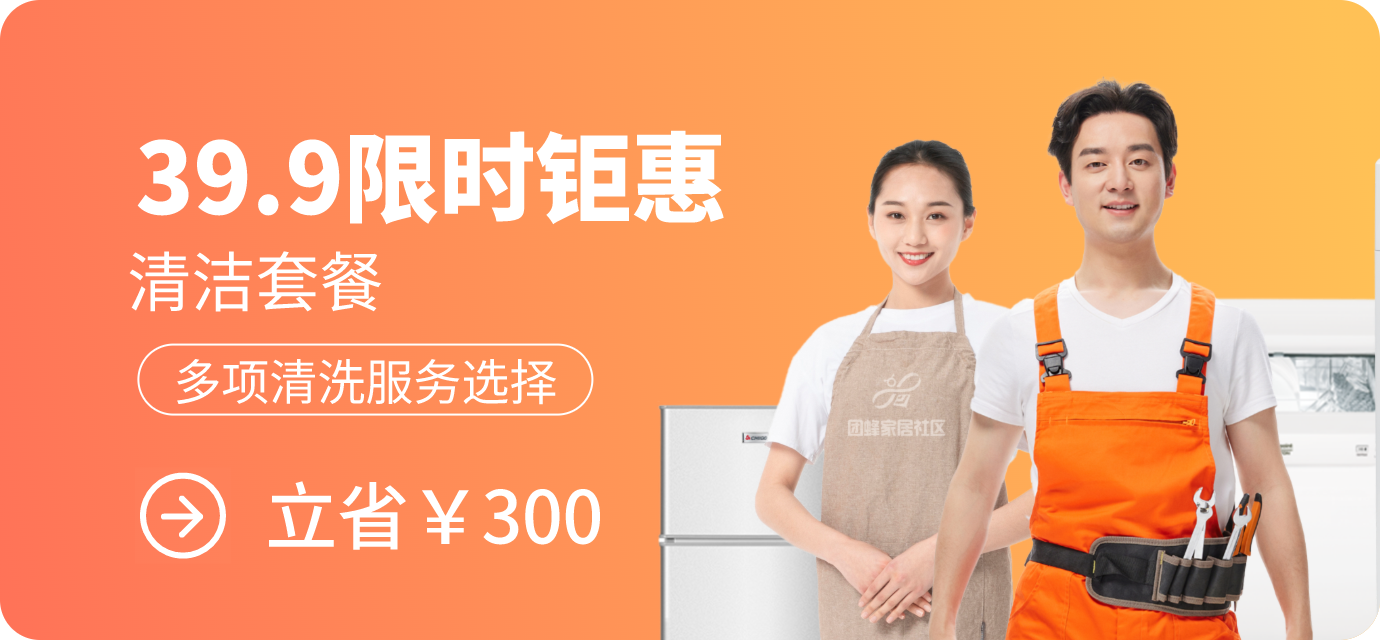
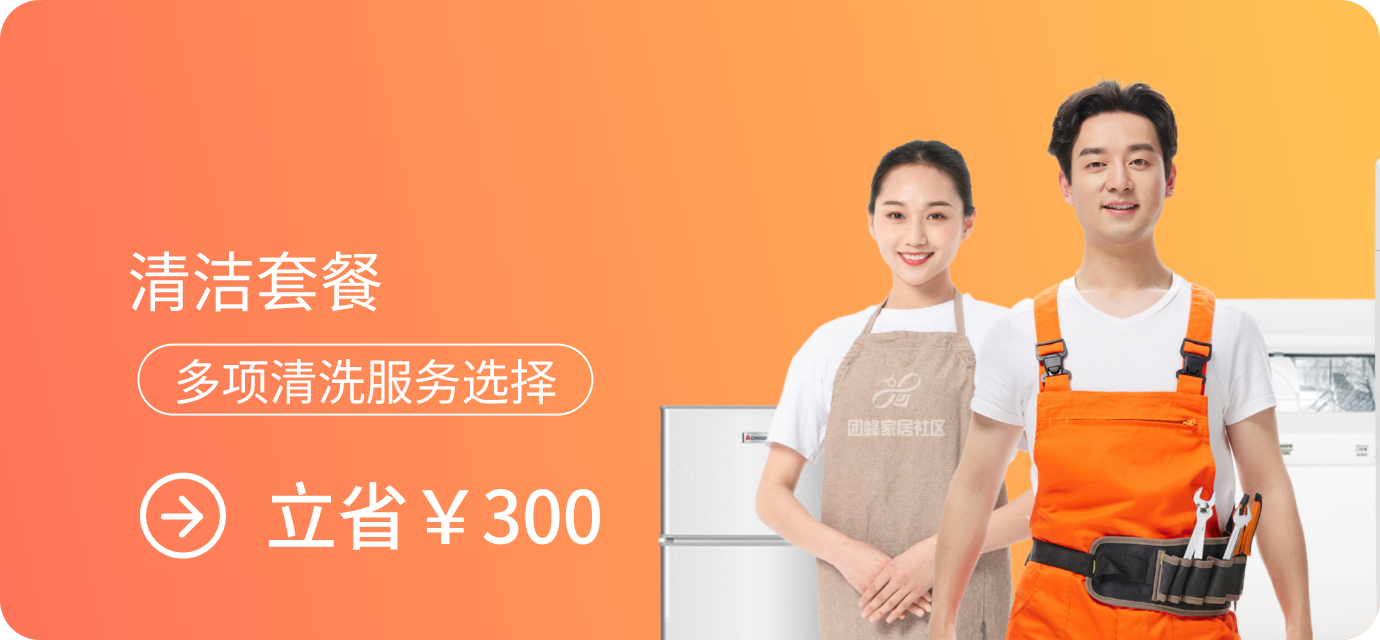
🦄 refactor(vipPackage): 将会员套餐改成动态

Changed region(s): [[0.0935, 0.1875, 0.5297, 0.3438]]

diff --git a/pages/community-center/cpns/VipPackage.vue b/pages/community-center/cpns/VipPackage.vue
@@ -6,12 +6,35 @@
     <view class="vip-container">
       <swiper indicator-dots autoplay indicator-color="#fff" indicator-active-color="#fdb96c"
         style="height: 320upx; width: 100%;">
-        <swiper-item @click="handleToVipDetail(item.url)" v-for="(item, index) in vipBarConfig" :key="index">
-          <image class="vip-banner" :src="item.img">
-          </image>
+        <swiper-item>
+          <view class="vip-wrapper vip-type-1" @click="handleToVipDetail(finalVipBarPackage[1].url)">
+            <image class="vip-banner" :src="finalVipBarPackage[1].img"></image>
+            <view class="text">
+              <view class="price-text">{{ finalVipBarPackage[1].price }}</view>
+              <view class="title-text">{{ finalVipBarPackage[1].name }}</view>
+            </view>
+          </view>
+        </swiper-item>
+
+        <swiper-item>
+          <view class="vip-wrapper vip-type-1" @click="handleToVipDetail(finalVipBarPackage[0].url)">
+            <image class="vip-banner" :src="finalVipBarPackage[0].img"></image>
+            <view class="text">
+              <view class="price-text">￥{{ finalVipBarPackage[0].price }}</view>
+              <view class="title-text">{{ finalVipBarPackage[0].name }}</view>
+            </view>
+          </view>
+        </swiper-item>
+
+        <swiper-item>
+          <view class="vip-wrapper vip-type-1" @click="handleToVipDetail(finalVipBarPackage[2].url)">
+            <image class="vip-banner" :src="finalVipBarPackage[2].img"></image>
+          </view>
         </swiper-item>
       </swiper>
     </view>
+
+    <tui-toast ref="toast"></tui-toast>
   </view>
 </template>
 
@@ -20,8 +43,12 @@ import { vipBarConfig } from '../config'
 export default {
   data() {
     return {
-      vipBarConfig: Object.freeze(vipBarConfig)
+      vipBarConfig: []
     }
+  },
+
+  mounted() {
+    this.getDZPersonalizationConfig()
   },
 
   methods: {
@@ -32,7 +59,35 @@ export default {
         this.empty('套餐升级中')
       }
     },
+
+    // 获取自定义属性
+    async getDZPersonalizationConfig() {
+      const currentDetail = this.$store.getters.detailAddress
+      await this.$store.dispatch('community/getVipPackageList', currentDetail)
+      const vipPackageList = this.$store.getters.dzVipList
+      if (vipPackageList.length) {
+        for (const item of vipPackageList) {
+          vipBarConfig[item.serverType - 1].name = item.serverName
+          vipBarConfig[item.serverType - 1].price = item.serverPrice
+        }
+      }
+
+      this.vipBarConfig = vipBarConfig
+    }
   },
+
+  computed: {
+    finalVipBarPackage() {
+      if (this.$store.getters.dzVipList.length) {
+        for (const item of this.$store.getters.dzVipList) {
+          vipBarConfig[item.serverType - 1].name = item.serverName
+          vipBarConfig[item.serverType - 1].price = item.serverPrice
+        }
+      }
+
+      return vipBarConfig
+    }
+  }
 }
 </script>
 
@@ -57,8 +112,6 @@ export default {
     background: linear-gradient(180deg, #FFD556 0%, #E95D20 100%);
   }
 
-
-
   .item {
     color: #000000;
     font-size: 36upx;
@@ -69,7 +122,6 @@ export default {
   }
 }
 
-
 .vip-container {
   padding: 0 17px 0;
   box-sizing: border-box;
@@ -78,6 +130,27 @@ export default {
   .vip-banner {
     height: 100%;
     width: 100%;
+  }
+}
+
+.vip-wrapper {
+  width: 100%;
+  height: 320upx;
+}
+
+
+.vip-wrapper {
+  position: relative;
+
+  .text {
+    position: absolute;
+    top: 50upx;
+    left: 58upx;
+    font-size: 48upx;
+    font-weight: bold;
+    color: #fff;
+    display: flex;
+    align-items: center;
   }
 }
 </style>

diff --git a/store/modules/community.js b/store/modules/community.js
@@ -3,6 +3,7 @@ import {
   CHANGE_HOME_PAGE_IMAGE,
   CHANGE_HOME_STORE,
   CHANGE_HOME_PAGE_IMAGE_PATH,
+  CHANGE_DZ_VIP_PACKAGE,
 } from "./type";
 import communityShopList from "data/communityShopList";
 
@@ -13,6 +14,7 @@ export default {
       popupImage: null,
       popupImagePath: null,
       homeCommunityStore: {},
+      dzVipList: [],
     };
   },
 
@@ -37,6 +39,10 @@ export default {
       state.homeCommunityStore = findCurrentStore
         ? findCurrentStore
         : communityShopList[0];
+    },
+
+    [CHANGE_DZ_VIP_PACKAGE](state, vipList) {
+      state.dzVipList = vipList;
     },
   },
 
@@ -82,6 +88,21 @@ export default {
           }
         });
       });
+    },
+
+    // 获取会员套餐自定义属性
+    async getVipPackageList({ commit }, currentAddress) {
+      const res = await queryDynamicDataApi({
+        address:
+          currentAddress && JSON.stringify(currentAddress) != "[]"
+            ? currentAddress
+            : "广东省佛山市顺德区龙江镇",
+        correspondType: 2,
+      });
+
+      if (res.statusCode === 20000 && res.data !== "该区域暂无自定义属性") {
+        commit(CHANGE_DZ_VIP_PACKAGE, res.data);
+      }
     },
   },
 };

diff --git a/pages/community-center/config.js b/pages/community-center/config.js
@@ -218,16 +218,16 @@ export const countList = [
 
 export const vipBarConfig = [
   {
-    img: require("../../static/images/con-center/cao-1.png"),
-    url: "/community-center/vip-center/vip-detail?type=1",
-    name: "限时钜惠",
-    price: "39.9",
-  },
-  {
     img: require("../../static/images/con-center/cao-2.png"),
     url: "/community-center/vip-center/vip-detail?type=2",
     name: "全年金管家套餐",
     price: "299",
+  },
+	{
+    img: require("../../static/images/con-center/cao-1.png"),
+    url: "/community-center/vip-center/vip-detail?type=1",
+    name: "限时钜惠",
+    price: "39.9",
   },
   {
     img: require("../../static/images/con-center/cao-3.png"),

diff --git a/store/modules/type.js b/store/modules/type.js
@@ -31,6 +31,7 @@ export const CHANGE_REGIONAGENT_STATUS = "CHANGE_REGIONAGENT_STATUS";
 export const CHANGE_HOME_PAGE_IMAGE = "change_home_page_image";
 export const CHANGE_HOME_STORE = "CHANGE_HOME_STORE";
 export const CHANGE_HOME_PAGE_IMAGE_PATH = "CHANGE_HOME_PAGE_IMAGE_PATH"
+export const CHANGE_DZ_VIP_PACKAGE = 'CHANGE_DZ_VIP_PACKAGE'
 
 // app
 export const CHANGE_IS_IN_MINIPROGRAM = "CHANGE_IS_IN_MINIPROGRAM";

diff --git a/store/modules/location.js b/store/modules/location.js
@@ -201,6 +201,13 @@ export default {
         );
 
         commit("community/CHANGE_HOME_STORE", data.town, { root: true });
+        dispatch(
+          "community/getVipPackageList",
+          detailInfo.province + data.city + data.distinguish + data.town,
+          {
+            root: true,
+          }
+        );
       }
     },
   },

diff --git a/store/getters.js b/store/getters.js
@@ -30,4 +30,5 @@ export default {
   popupImage: (state) => state.community.popupImage,
   homeCommunityStore: (state) => state.community.homeCommunityStore,
   popupImagePath: (state) => state.community.popupImagePath,
+  dzVipList: (state) => state.community.dzVipList,
 };
